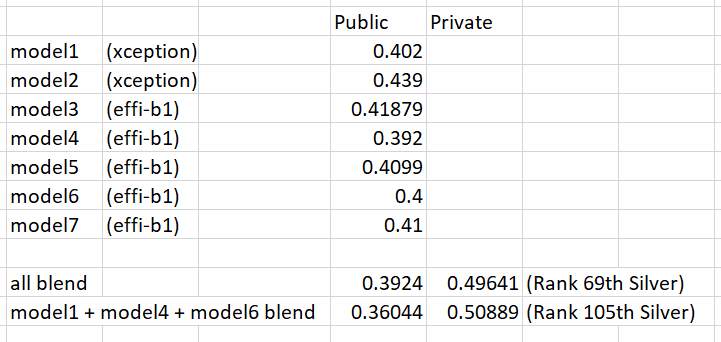
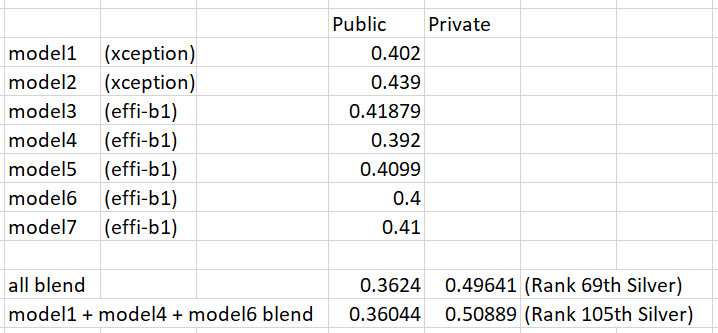
Fix scores image

diff --git a/README.md b/README.md
@@ -2,7 +2,7 @@
 
 My 69th place solution and writeup for the [Deepfake Detection Challenge](https://www.kaggle.com/c/deepfake-detection-challenge) hosted on Kaggle by AWS, Facebook, Microsoft, the Partnership on AI’s Media Integrity Steering Committee and others.
 
-<img href='https://github.com/GreatGameDota/Deepfake-Detection/blob/master/assets/logo.jpg?raw=true' alt='logo' title='logo' height=500 width=500>
+<img href='https://github.com/GreatGameDota/Deepfake-Detection/blob/master/assets/logo.jpg' alt='logo' title='logo' height=500 width=500>
 
 ## Initial Thoughts
 
